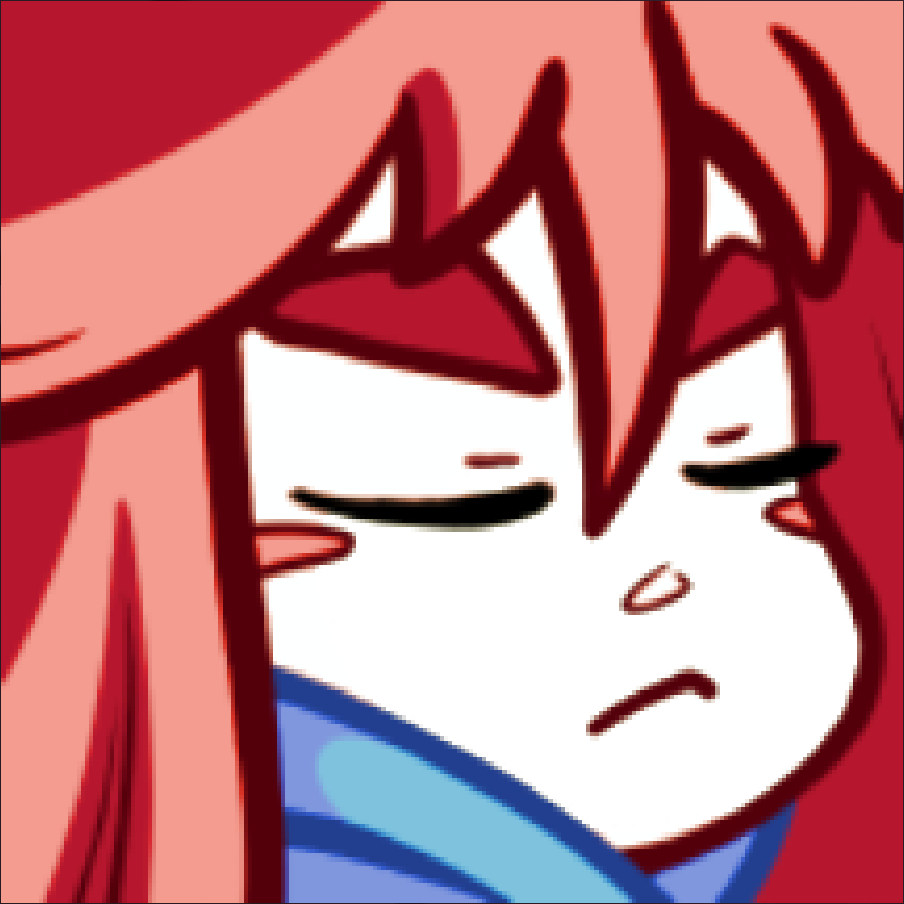
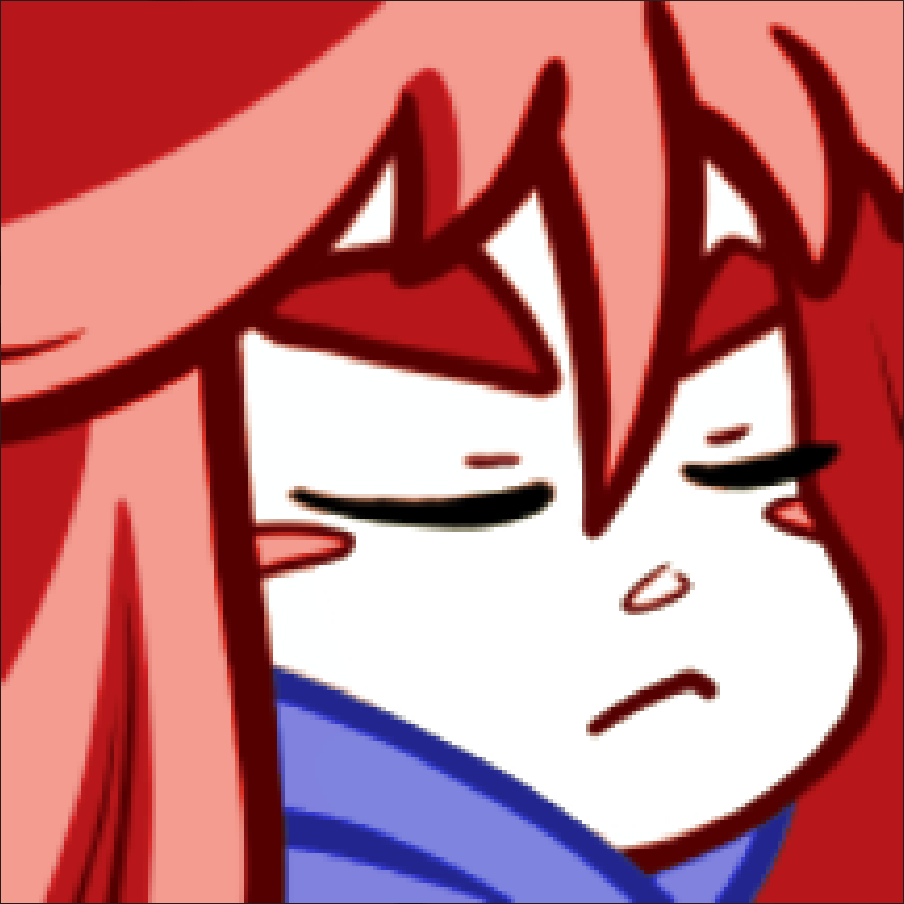
Add: OpenCL acceleration

Changed region(s): [[0.3097, 0.7434, 0.7434, 1.0], [0.7743, 0.8673, 0.8982, 1.0]]

diff --git a/src/main.c b/src/main.c
@@ -1,11 +1,17 @@
+#include "CL/cl.h"
 #include "png.h"
 #include <math.h>
 #include <stdint.h>
 #include <stdio.h>
 #include <stdlib.h>
 #include <string.h>
+#include <time.h>
+
+#define MAX_SOURCE_SIZE (1 << 20)
 
 void adjust_brightness(const char *in, const char *out, double factor);
+void _adjust_brightness_cl(png_bytep buffer_in, png_bytep buffer_out,
+                           double factor, size_t image_size);
 void _adjust_brightness(png_bytep buffer_in, png_bytep buffer_out,
                         double factor);
 double hue_to_rgb(double p, double q, double t);
@@ -47,22 +53,123 @@ void adjust_brightness(const char *in, const char *out, double factor) {
   buffer_in = (png_bytep)malloc(image_size);
   png_image_finish_read(&image_in, NULL, buffer_in, row_stride, NULL);
 
-  for (int i = 0; i < 21; i++) {
-    printf("%d ", buffer_in[i]);
-  }
-  printf("\n");
-
   buffer_out = (png_bytep)malloc(image_size);
+  struct timespec start, end;
+  printf("[INFO] Start running brightness adjustment with no acc ...\n");
+  timespec_get(&start, TIME_UTC);
   for (int i = 0; i < image_size; i += 3) {
     _adjust_brightness(buffer_in + i, buffer_out + i, factor);
   }
+  timespec_get(&end, TIME_UTC);
+  printf(
+      "Time taken for brightness adjustment with no acc: %llu nanosecond(s)\n",
+      (end.tv_sec - start.tv_sec) * (int)1e9 + (end.tv_nsec - start.tv_nsec));
 
-  for (int i = 0; i < 21; i++) {
-    printf("%d ", buffer_out[i]);
-  }
-  printf("\n");
+  _adjust_brightness_cl(buffer_in, buffer_out, factor, image_size);
 
   png_image_write_to_file(&image_in, out, 0, buffer_out, 0, NULL);
+}
+
+void _adjust_brightness_cl(png_bytep buffer_in, png_bytep buffer_out,
+                           double factor, size_t image_size) {
+  struct timespec start, end;
+  cl_platform_id platform;
+  cl_device_id device;
+  cl_context context;
+  cl_program program;
+  cl_int err;
+  size_t source_size;
+  char *source_str;
+
+  err = clGetPlatformIDs(1, &platform, NULL);
+  err |= clGetDeviceIDs(platform, CL_DEVICE_TYPE_GPU, 1, &device, NULL);
+
+  if (err != CL_SUCCESS) {
+    fprintf(stderr, "[ERROR] Failed to get device.\n");
+    exit(1);
+  }
+
+  // initialize
+  FILE *fp = fopen("./src/adjust_brightness.cl", "r");
+  if (fp == NULL) {
+    fprintf(stderr, "[ERROR] Failed to open cl file.\n");
+    exit(1);
+  }
+
+  source_str = (char *)malloc(sizeof(char) * MAX_SOURCE_SIZE);
+  source_size = fread(source_str, 1, MAX_SOURCE_SIZE, fp);
+  fclose(fp);
+
+  char *log;
+  size_t build_log_len;
+  context = clCreateContext(0, 1, &device, NULL, NULL, &err);
+  program = clCreateProgramWithSource(context, 1, (const char **)&source_str,
+                                      (const size_t *)&source_size, &err);
+  err = clBuildProgram(program, 1, &device, NULL, NULL, NULL);
+
+  if (err != CL_SUCCESS) {
+    cl_int error;
+    error = clGetProgramBuildInfo(program, device, CL_PROGRAM_BUILD_LOG, 0,
+                                  NULL, &build_log_len);
+
+    if (error) {
+      fprintf(stderr, "[ERROR] clGetProgramBuildInfo failded.\n");
+      exit(1);
+    }
+
+    log = (char *)malloc(build_log_len * sizeof(char));
+    if (!log) {
+      fprintf(stderr, "[ERROR] malloc failed.\n");
+      exit(1);
+    }
+    error = clGetProgramBuildInfo(program, device, CL_PROGRAM_BUILD_LOG,
+                                  build_log_len, log, NULL);
+    if (error) {
+      fprintf(stderr, "[ERROR] clGetProgramBuildInfo failed.\n");
+      exit(1);
+    }
+
+    fprintf(stderr, "[ERROR] Build log: \n%s\n", log);
+    free(log);
+    fprintf(stderr, "[ERROR] clBuildProgram failed.\n");
+    exit(EXIT_FAILURE);
+  }
+
+  cl_kernel kernel;
+  cl_command_queue queue;
+  size_t global_size, local_size;
+  size_t bytes_in, bytes_out;
+
+  cl_mem d_in;
+  cl_mem d_out;
+
+  bytes_in = image_size * sizeof(png_byte);
+  bytes_out = image_size * sizeof(png_byte);
+  local_size = 1024;
+  global_size = ceil(image_size / (float)local_size) * local_size;
+
+  kernel = clCreateKernel(program, "adjust_brightness", &err);
+  queue = clCreateCommandQueueWithProperties(context, device, NULL, &err);
+
+  printf("[INFO] Start running brightness adjustment with acc ...\n");
+  timespec_get(&start, TIME_UTC);
+  d_in = clCreateBuffer(context, CL_MEM_READ_ONLY, bytes_in, NULL, NULL);
+  d_out = clCreateBuffer(context, CL_MEM_WRITE_ONLY, bytes_out, NULL, NULL);
+  err = clEnqueueWriteBuffer(queue, d_in, CL_TRUE, 0, bytes_in, buffer_in, 0,
+                             NULL, NULL);
+  err |= clSetKernelArg(kernel, 0, sizeof(cl_mem), &d_in);
+  err |= clSetKernelArg(kernel, 1, sizeof(cl_mem), &d_out);
+  err |= clSetKernelArg(kernel, 2, sizeof(double), &factor);
+  err |= clEnqueueNDRangeKernel(queue, kernel, 1, NULL, &global_size,
+                                &local_size, 0, NULL, NULL);
+  clFinish(queue);
+  clEnqueueReadBuffer(queue, d_out, CL_TRUE, 0, bytes_out, (void *)buffer_out,
+                      0, NULL, NULL);
+  timespec_get(&end, TIME_UTC);
+  printf("[INFO] Time taken for brightness adjustment with acc:%llu "
+         "nanosecond(s)\n",
+         (end.tv_sec - start.tv_sec) * (int)1e9 +
+             (end.tv_nsec - start.tv_nsec));
 }
 
 void _adjust_brightness(png_bytep buffer_in, png_bytep buffer_out,

diff --git a/README.md b/README.md
@@ -1,6 +1,9 @@
 # adjust-brightness
 Adjust the brightness of the image with libpng.
+
 Also an example of read and write image with simplified libpng API.
+
+Accelerated with OpenCL.
 
 ## Method
 convert RGB to HSL, change the lightness and convert HSL back to RGB.
